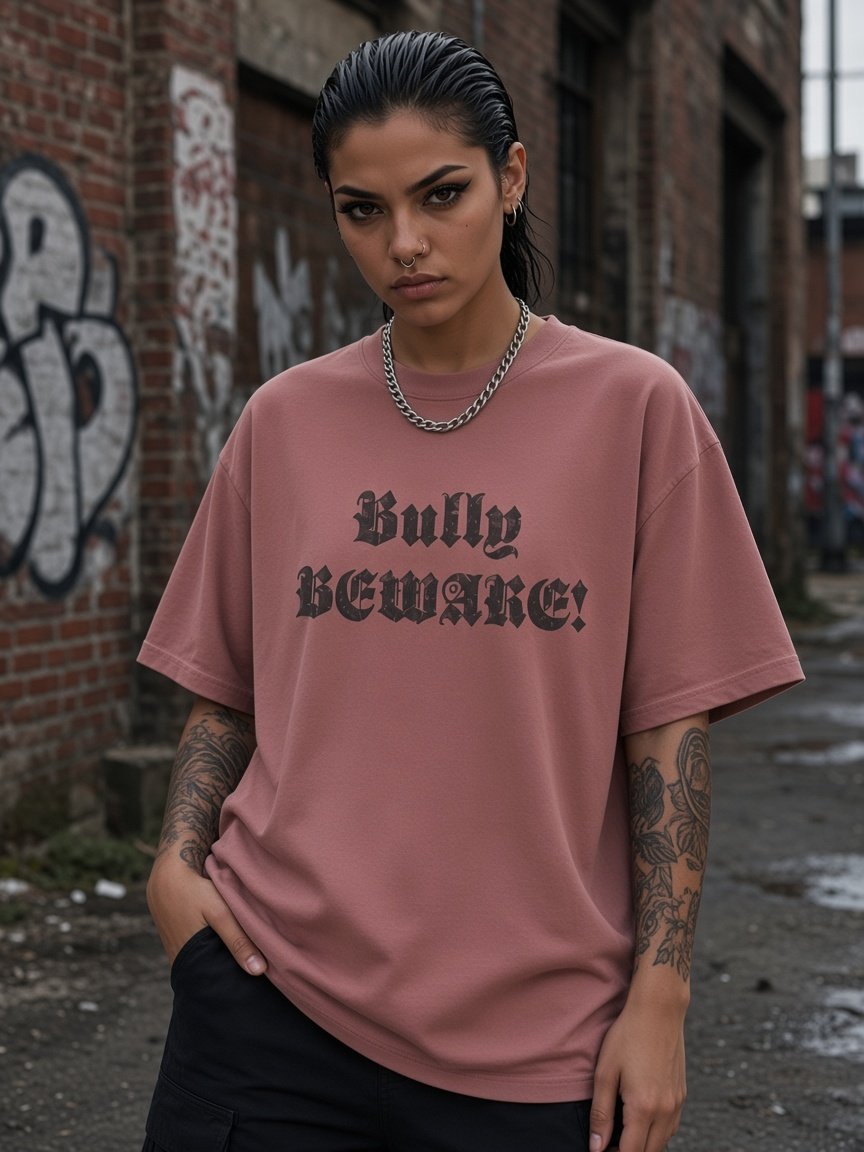
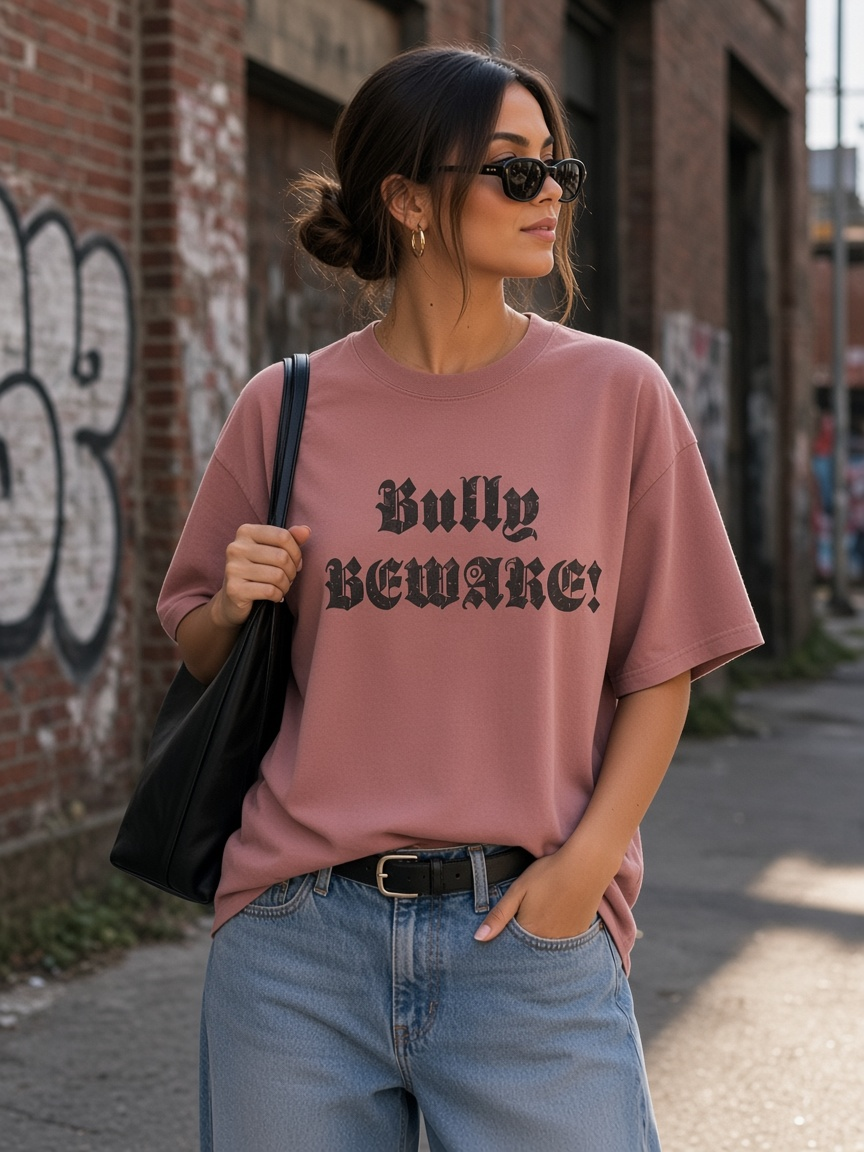
Refresh Beware Tee pink model to softer chic street vibe (per user).

diff --git a/collections.html b/collections.html
@@ -8,8 +8,8 @@
   <link rel="preconnect" href="https://fonts.gstatic.com" crossorigin>
   <link rel="stylesheet" href="https://fonts.googleapis.com/css2?family=Outfit:wght@400;500;600;700&family=UnifrakturMaguntia&display=swap">
   <title>Collections — {{BRAND}}</title>
-  <link rel="stylesheet" href="css/brand.css?v=20260923c">
-  <link rel="stylesheet" href="css/main.css?v=20260923c">
+  <link rel="stylesheet" href="css/brand.css?v=20260923d">
+  <link rel="stylesheet" href="css/main.css?v=20260923d">
 </head>
 <body data-page="collections">
   <header class="site-header" data-site-header></header>
@@ -31,8 +31,8 @@
 
   <footer class="site-footer" data-site-footer></footer>
 
-  <script src="js/site-config.js?v=20260923c"></script>
-  <script src="js/catalog.js?v=20260923c"></script>
-  <script src="js/layout.js?v=20260923c"></script>
+  <script src="js/site-config.js?v=20260923d"></script>
+  <script src="js/catalog.js?v=20260923d"></script>
+  <script src="js/layout.js?v=20260923d"></script>
 </body>
 </html>

diff --git a/404.html b/404.html
@@ -8,8 +8,8 @@
   <link rel="preconnect" href="https://fonts.gstatic.com" crossorigin>
   <link rel="stylesheet" href="https://fonts.googleapis.com/css2?family=Outfit:wght@400;500;600;700&family=UnifrakturMaguntia&display=swap">
   <title>Page not found — {{BRAND}}</title>
-  <link rel="stylesheet" href="css/brand.css?v=20260923c">
-  <link rel="stylesheet" href="css/main.css?v=20260923c">
+  <link rel="stylesheet" href="css/brand.css?v=20260923d">
+  <link rel="stylesheet" href="css/main.css?v=20260923d">
 </head>
 <body data-page="404">
   <header class="site-header" data-site-header></header>
@@ -26,8 +26,8 @@
 
   <footer class="site-footer" data-site-footer></footer>
 
-  <script src="js/site-config.js?v=20260923c"></script>
-  <script src="js/catalog.js?v=20260923c"></script>
-  <script src="js/layout.js?v=20260923c"></script>
+  <script src="js/site-config.js?v=20260923d"></script>
+  <script src="js/catalog.js?v=20260923d"></script>
+  <script src="js/layout.js?v=20260923d"></script>
 </body>
 </html>

diff --git a/thanks.html b/thanks.html
@@ -8,8 +8,8 @@
   <link rel="preconnect" href="https://fonts.gstatic.com" crossorigin>
   <link rel="stylesheet" href="https://fonts.googleapis.com/css2?family=Outfit:wght@400;500;600;700&family=UnifrakturMaguntia&display=swap">
   <title>Thank you — {{BRAND}}</title>
-  <link rel="stylesheet" href="css/brand.css?v=20260923c">
-  <link rel="stylesheet" href="css/main.css?v=20260923c">
+  <link rel="stylesheet" href="css/brand.css?v=20260923d">
+  <link rel="stylesheet" href="css/main.css?v=20260923d">
 </head>
 <body data-page="thanks">
   <header class="site-header" data-site-header></header>
@@ -24,8 +24,8 @@
 
   <footer class="site-footer" data-site-footer></footer>
 
-  <script src="js/site-config.js?v=20260923c"></script>
-  <script src="js/catalog.js?v=20260923c"></script>
-  <script src="js/layout.js?v=20260923c"></script>
+  <script src="js/site-config.js?v=20260923d"></script>
+  <script src="js/catalog.js?v=20260923d"></script>
+  <script src="js/layout.js?v=20260923d"></script>
 </body>
 </html>

diff --git a/contact.html b/contact.html
@@ -8,8 +8,8 @@
   <link rel="preconnect" href="https://fonts.gstatic.com" crossorigin>
   <link rel="stylesheet" href="https://fonts.googleapis.com/css2?family=Outfit:wght@400;500;600;700&family=UnifrakturMaguntia&display=swap">
   <title>Contact — {{BRAND}}</title>
-  <link rel="stylesheet" href="css/brand.css?v=20260923c">
-  <link rel="stylesheet" href="css/main.css?v=20260923c">
+  <link rel="stylesheet" href="css/brand.css?v=20260923d">
+  <link rel="stylesheet" href="css/main.css?v=20260923d">
 </head>
 <body data-page="contact">
   <header class="site-header" data-site-header></header>
@@ -67,8 +67,8 @@
 
   <footer class="site-footer" data-site-footer></footer>
 
-  <script src="js/site-config.js?v=20260923c"></script>
-  <script src="js/catalog.js?v=20260923c"></script>
-  <script src="js/layout.js?v=20260923c"></script>
+  <script src="js/site-config.js?v=20260923d"></script>
+  <script src="js/catalog.js?v=20260923d"></script>
+  <script src="js/layout.js?v=20260923d"></script>
 </body>
 </html>

diff --git a/privacy.html b/privacy.html
@@ -8,8 +8,8 @@
   <link rel="preconnect" href="https://fonts.gstatic.com" crossorigin>
   <link rel="stylesheet" href="https://fonts.googleapis.com/css2?family=Outfit:wght@400;500;600;700&family=UnifrakturMaguntia&display=swap">
   <title>Privacy — {{BRAND}}</title>
-  <link rel="stylesheet" href="css/brand.css?v=20260923c">
-  <link rel="stylesheet" href="css/main.css?v=20260923c">
+  <link rel="stylesheet" href="css/brand.css?v=20260923d">
+  <link rel="stylesheet" href="css/main.css?v=20260923d">
 </head>
 <body data-page="privacy">
   <header class="site-header" data-site-header></header>
@@ -29,8 +29,8 @@
 
   <footer class="site-footer" data-site-footer></footer>
 
-  <script src="js/site-config.js?v=20260923c"></script>
-  <script src="js/catalog.js?v=20260923c"></script>
-  <script src="js/layout.js?v=20260923c"></script>
+  <script src="js/site-config.js?v=20260923d"></script>
+  <script src="js/catalog.js?v=20260923d"></script>
+  <script src="js/layout.js?v=20260923d"></script>
 </body>
 </html>

diff --git a/product.html b/product.html
@@ -8,8 +8,8 @@
   <link rel="preconnect" href="https://fonts.gstatic.com" crossorigin>
   <link rel="stylesheet" href="https://fonts.googleapis.com/css2?family=Outfit:wght@400;500;600;700&family=UnifrakturMaguntia&display=swap">
   <title>Product — {{BRAND}}</title>
-  <link rel="stylesheet" href="css/brand.css?v=20260923c">
-  <link rel="stylesheet" href="css/main.css?v=20260923c">
+  <link rel="stylesheet" href="css/brand.css?v=20260923d">
+  <link rel="stylesheet" href="css/main.css?v=20260923d">
 </head>
 <body data-page="product">
   <header class="site-header" data-site-header></header>
@@ -22,8 +22,8 @@
 
   <footer class="site-footer" data-site-footer></footer>
 
-  <script src="js/site-config.js?v=20260923c"></script>
-  <script src="js/catalog.js?v=20260923c"></script>
-  <script src="js/layout.js?v=20260923c"></script>
+  <script src="js/site-config.js?v=20260923d"></script>
+  <script src="js/catalog.js?v=20260923d"></script>
+  <script src="js/layout.js?v=20260923d"></script>
 </body>
 </html>

diff --git a/about.html b/about.html
@@ -8,8 +8,8 @@
   <link rel="preconnect" href="https://fonts.gstatic.com" crossorigin>
   <link rel="stylesheet" href="https://fonts.googleapis.com/css2?family=Outfit:wght@400;500;600;700&family=UnifrakturMaguntia&display=swap">
   <title>About — {{BRAND}}</title>
-  <link rel="stylesheet" href="css/brand.css?v=20260923c">
-  <link rel="stylesheet" href="css/main.css?v=20260923c">
+  <link rel="stylesheet" href="css/brand.css?v=20260923d">
+  <link rel="stylesheet" href="css/main.css?v=20260923d">
 </head>
 <body data-page="about">
   <header class="site-header" data-site-header></header>
@@ -29,8 +29,8 @@
 
   <footer class="site-footer" data-site-footer></footer>
 
-  <script src="js/site-config.js?v=20260923c"></script>
-  <script src="js/catalog.js?v=20260923c"></script>
-  <script src="js/layout.js?v=20260923c"></script>
+  <script src="js/site-config.js?v=20260923d"></script>
+  <script src="js/catalog.js?v=20260923d"></script>
+  <script src="js/layout.js?v=20260923d"></script>
 </body>
 </html>

diff --git a/shop.html b/shop.html
@@ -8,8 +8,8 @@
   <link rel="preconnect" href="https://fonts.gstatic.com" crossorigin>
   <link rel="stylesheet" href="https://fonts.googleapis.com/css2?family=Outfit:wght@400;500;600;700&family=UnifrakturMaguntia&display=swap">
   <title>Shop — {{BRAND}}</title>
-  <link rel="stylesheet" href="css/brand.css?v=20260923c">
-  <link rel="stylesheet" href="css/main.css?v=20260923c">
+  <link rel="stylesheet" href="css/brand.css?v=20260923d">
+  <link rel="stylesheet" href="css/main.css?v=20260923d">
 </head>
 <body data-page="shop">
   <header class="site-header" data-site-header></header>
@@ -32,8 +32,8 @@
 
   <footer class="site-footer" data-site-footer></footer>
 
-  <script src="js/site-config.js?v=20260923c"></script>
-  <script src="js/catalog.js?v=20260923c"></script>
-  <script src="js/layout.js?v=20260923c"></script>
+  <script src="js/site-config.js?v=20260923d"></script>
+  <script src="js/catalog.js?v=20260923d"></script>
+  <script src="js/layout.js?v=20260923d"></script>
 </body>
 </html>

diff --git a/index.html b/index.html
@@ -23,8 +23,8 @@
   <meta name="twitter:image" content="https://jimmythegod100.github.io/bvlly/images/og.jpg">
   <link rel="canonical" href="https://jimmythegod100.github.io/bvlly/">
   <link rel="icon" href="favicon.svg">
-  <link rel="stylesheet" href="css/brand.css?v=20260923c">
-  <link rel="stylesheet" href="css/main.css?v=20260923c">
+  <link rel="stylesheet" href="css/brand.css?v=20260923d">
+  <link rel="stylesheet" href="css/main.css?v=20260923d">
 </head>
 <body data-page="home">
   <header class="site-header" data-site-header></header>
@@ -87,8 +87,8 @@
 
   <footer class="site-footer" data-site-footer></footer>
 
-  <script src="js/site-config.js?v=20260923c"></script>
-  <script src="js/catalog.js?v=20260923c"></script>
-  <script src="js/layout.js?v=20260923c"></script>
+  <script src="js/site-config.js?v=20260923d"></script>
+  <script src="js/catalog.js?v=20260923d"></script>
+  <script src="js/layout.js?v=20260923d"></script>
 </body>
 </html>

diff --git a/js/site-config.js b/js/site-config.js
@@ -7,7 +7,7 @@
  */
 (function () {
   // Bump when lookbook JPGs change so browsers skip stale CDN/disk cache.
-  const ASSET_V = '20260923c';
+  const ASSET_V = '20260923d';
 
   const COLORWAYS = [
     { name: 'Pink', slug: 'pink', hex: '#e5b3c5' },
